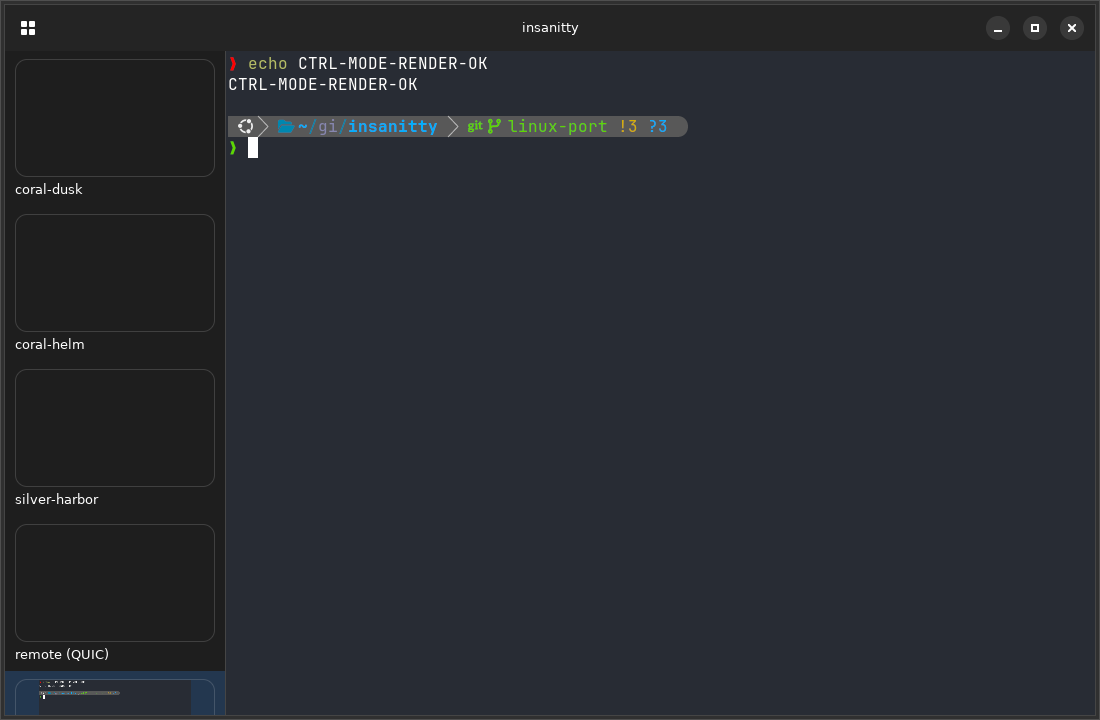
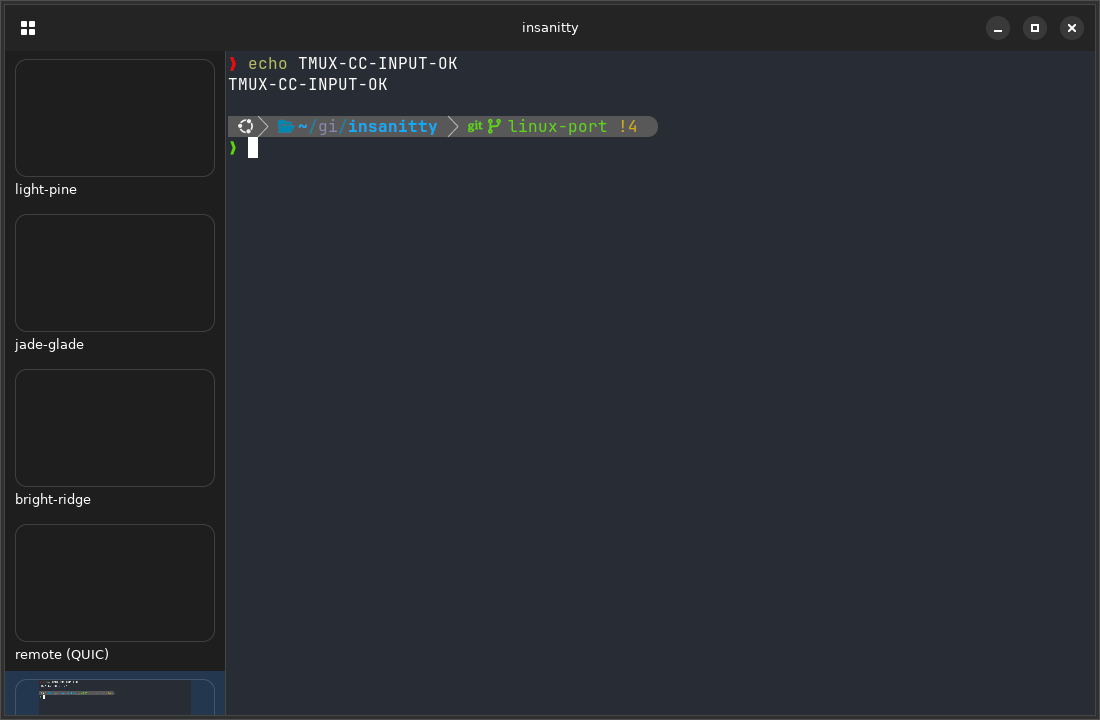
feat: interactive tmux control mode — route keystrokes via send-keys
Make the tmux -CC pane interactive. A capture-phase key controller on the silent surface
encodes keypresses (printable + Enter/Tab/Backspace/Escape/Ctrl-letters/arrows) and forwards
them to the control session's pane via `send-keys -t %<pane> -H <hex>`. The pane id is queried
up front (tmux list-panes) as a default so input works before the first %output, fixing a
chicken-and-egg where input was gated on output.

scripts/e2e-tmux-control.sh now drives the full loop: type into the surface → send-keys →
the shell runs the command → tmux %output → inject_output paints it (docs/images/tmux-control.png
shows `echo INPUT-CC-$((3*9))` → `INPUT-CC-27`). Single-window/pane control mode is now
interactive end to end.

Claude-Session: https://claude.ai/code/session_01XLxKNRUgPBDkQ3UXC8bPwP

diff --git a/app/main.swift b/app/main.swift
@@ -393,10 +393,48 @@ func runDetached(_ command: String) {
     try? p.run(); p.waitUntilExit()
 }
 
+/// Run a shell command and return its stdout (used to query tmux for the control pane id).
+func shellOutput(_ command: String) -> String {
+    let p = Process()
+    p.executableURL = URL(fileURLWithPath: "/bin/sh")
+    p.arguments = ["-c", command]
+    let pipe = Pipe(); p.standardOutput = pipe; p.standardError = FileHandle.nullDevice
+    do { try p.run() } catch { return "" }
+    let data = pipe.fileHandleForReading.readDataToEndOfFile()
+    p.waitUntilExit()
+    return String(decoding: data, as: UTF8.self)
+}
+
 /// A silent terminal surface: its shell discards input and emits nothing, so the surface renders
 /// ONLY bytes injected into it — used as a tmux control-mode pane.
 func makeSilentTerminal() -> OpaquePointer? {
     makeTerminal("stty raw -echo 2>/dev/null; exec cat >/dev/null")
+}
+
+/// Encode a GDK keypress into the bytes tmux expects (sent via `send-keys -H`): printable
+/// characters, Enter/Tab/Backspace/Escape, Ctrl-letters, and the arrow keys.
+func encodeTmuxKey(keyval: guint, state: GdkModifierType) -> [UInt8]? {
+    let ctrl = (state.rawValue & GDK_CONTROL_MASK.rawValue) != 0
+    if keyval == GDK_KEY_Return || keyval == GDK_KEY_KP_Enter { return [0x0D] }
+    if keyval == GDK_KEY_BackSpace { return [0x7F] }
+    if keyval == GDK_KEY_Tab { return [0x09] }
+    if keyval == GDK_KEY_Escape { return [0x1B] }
+    if keyval == GDK_KEY_Up { return [0x1B, 0x5B, 0x41] }
+    if keyval == GDK_KEY_Down { return [0x1B, 0x5B, 0x42] }
+    if keyval == GDK_KEY_Right { return [0x1B, 0x5B, 0x43] }
+    if keyval == GDK_KEY_Left { return [0x1B, 0x5B, 0x44] }
+    let uni = gdk_keyval_to_unicode(keyval)
+    guard uni != 0, let scalar = Unicode.Scalar(uni) else { return nil }
+    if ctrl, scalar.value >= 0x40, scalar.value < 0x7F { return [UInt8(scalar.value & 0x1F)] }
+    return Array(String(scalar).utf8)
+}
+
+/// Key pressed on the tmux -CC surface → forward to the control session's active pane.
+let ctrlKeyCb: @convention(c) (OpaquePointer?, guint, guint, GdkModifierType, UnsafeMutableRawPointer?) -> gboolean = { _, keyval, _, state, _ in
+    guard let client = ctrlClient, let pane = client.inputPane,
+          let bytes = encodeTmuxKey(keyval: keyval, state: state) else { return 0 }
+    client.sendKeys(pane: pane, bytes: bytes)
+    return 1
 }
 
 /// A "tmux -CC" workspace: insanitty owns the `tmux -CC` control session and renders its pane by
@@ -413,12 +451,21 @@ func makeControlModeWorkspacePage() -> OpaquePointer? {
     gtk_box_append(P(vbox), P(tabView))
 
     let term = makeSilentTerminal()!
+    // Route keystrokes on this surface to tmux (the surface's own shell is a no-op cat).
+    let kc = OP(gtk_event_controller_key_new())
+    gtk_event_controller_set_propagation_phase(P(kc), GTK_PHASE_CAPTURE)
+    g_signal_connect_data(raw(kc), "key-pressed", unsafeBitCast(ctrlKeyCb, to: GCallback.self), nil, nil, GConnectFlags(rawValue: 0))
+    gtk_widget_add_controller(P(term), P(kc))
     let box = OP(gtk_box_new(GTK_ORIENTATION_VERTICAL, 0))!
     gtk_box_append(P(box), P(term))
     let page = OP(adw_tab_view_append(P(tabView), P(box)))!
     adw_tab_page_set_title(P(page), "tmux -CC")
 
     let client = TmuxControlClient(session: "insanitty-cc")
+    // Query the session's pane id so keystrokes work before the first %output arrives.
+    let paneRaw = shellOutput("tmux list-panes -t insanitty-cc -F '#{pane_id}' | head -1")
+        .trimmingCharacters(in: .whitespacesAndNewlines)
+    if paneRaw.hasPrefix("%") { client.defaultPane = Int(paneRaw.dropFirst()) }
     client.surfaceForPane = { pane in
         if ctrlPaneSurfaces[pane] == nil { ctrlPaneSurfaces[pane] = term }
         return ctrlPaneSurfaces[pane]

diff --git a/app/TmuxControl.swift b/app/TmuxControl.swift
@@ -15,6 +15,12 @@ final class TmuxControlClient {
     private var pid: pid_t = 0
     private var partial: [UInt8] = []
     private var loggedRender = false
+    /// The pane keystrokes are routed to (the last pane to produce output / become active).
+    private(set) var activePane: Int?
+    /// Fallback pane (queried from tmux up front) so input works before the first %output.
+    var defaultPane: Int?
+    /// The pane to route keystrokes to right now.
+    var inputPane: Int? { activePane ?? defaultPane }
 
     /// Look up or create the surface a pane's output should be injected into (main thread).
     var surfaceForPane: ((_ pane: Int) -> OpaquePointer?)?
@@ -74,6 +80,7 @@ final class TmuxControlClient {
     private func handleLine(_ line: String) {
         switch TmuxControlParser.parse(line: line) {
         case .output(let pane, let bytes):
+            if activePane == nil { activePane = pane }
             guard let surface = surfaceForPane?(pane), !bytes.isEmpty else { return }
             bytes.withUnsafeBytes { raw in
                 insanitty_surface_inject_output(
@@ -87,6 +94,8 @@ final class TmuxControlClient {
             if let tree = TmuxLayoutParser.parse(layout) { onLayout?(window, tree) }
         case .windowClose(let window):
             onWindowClose?(window)
+        case .windowPaneChanged(_, let pane):
+            activePane = pane
         default:
             break
         }

diff --git a/docs/PARITY.md b/docs/PARITY.md
@@ -49,7 +49,7 @@ The sections below are the unvarnished detail.
 
 | Fantastty | insanitty | Notes |
 |---|---|---|
-| **tmux control mode (`-CC`)**: `TmuxControlClient`, protocol parser, V2 runtime, layout parser/mapper — windows↔tabs, panes↔splits, live layout sync | **PARTIAL** (`TmuxControlParser`/`TmuxLayoutParser` + live `TmuxControlClient`, `app/TmuxControl.swift`) | Parser foundation (12 tests) **plus a live control client**: spawns `tmux -CC attach` in a PTY (`ins_pty_spawn`/`forkpty`), reads the protocol on the GTK main loop (`g_unix_fd_add`), and renders a pane by injecting `%output` into a silent Ghostty surface — verified end to end (`scripts/e2e-tmux-control.sh`, env-gated demo workspace). Remaining: fan multiple windows→tabs + panes→splits via `%layout-change`→GtkPaned, and route keyboard input back via `send-keys`. The default workspaces still use plain `tmux new-session -A`. |
+| **tmux control mode (`-CC`)**: `TmuxControlClient`, protocol parser, V2 runtime, layout parser/mapper — windows↔tabs, panes↔splits, live layout sync | **PARTIAL — interactive single pane** (`TmuxControlParser`/`TmuxLayoutParser` + live `TmuxControlClient`, `app/TmuxControl.swift`) | Parser foundation (12 tests) **plus a live, interactive control client**: spawns `tmux -CC attach` in a PTY (`ins_pty_spawn`/`forkpty`), reads the protocol on the GTK main loop (`g_unix_fd_add`), renders a pane by injecting `%output` into a silent Ghostty surface, **and routes keystrokes back via `send-keys`** — typed input runs in the real session and the result paints back. Verified end to end (`scripts/e2e-tmux-control.sh`: type → send-keys → shell → %output → inject). Remaining: fan multiple windows→tabs + panes→splits via `%layout-change`→GtkPaned. The default workspaces still use plain `tmux new-session -A`. |
 | Attach to existing session (local + SSH), `TmuxAttachSheet` | **ABSENT** | No attach UI. |
 | SSH remote tmux (`ssh -t … tmux -CC`) | **ABSENT** | |
 | `persistentSessions` toggle (default **off**), restore layout on launch | **PARTIAL** | tmux persistence is always-on for the primary shell and **verified** (`e2e-persistence.sh`: a process outlived an app kill, V1<V2<V3). But there is **no layout restore** — only the tmux server retains the shell; the app rebuilds a fresh default workspace set each launch. |